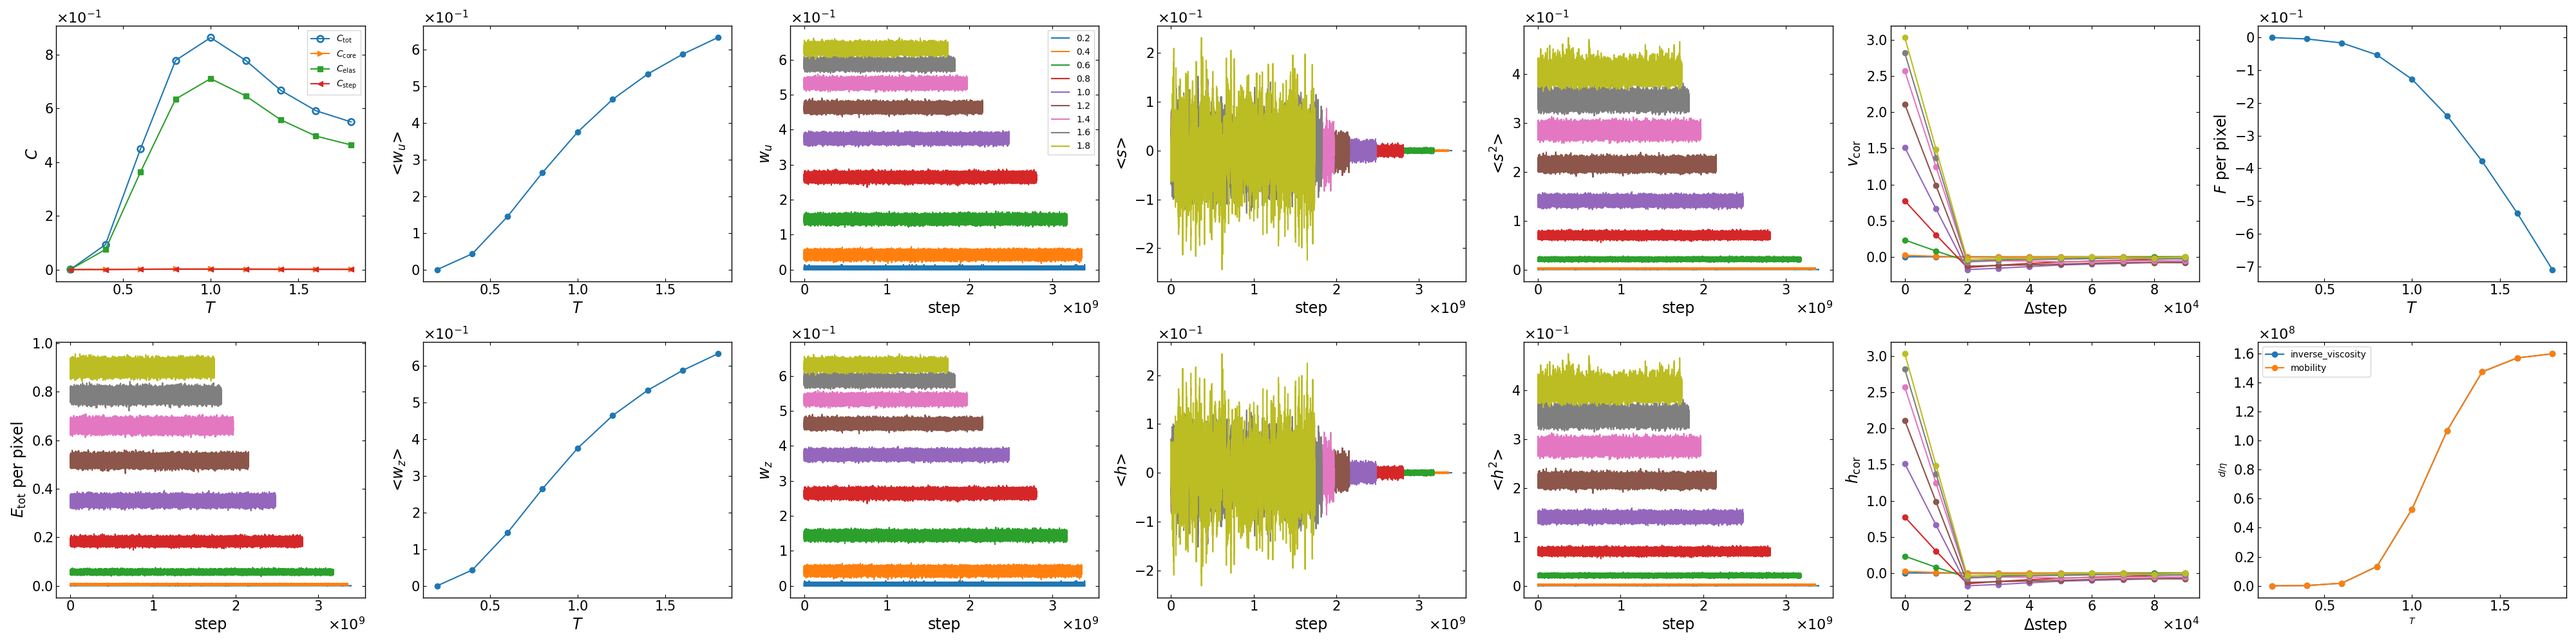
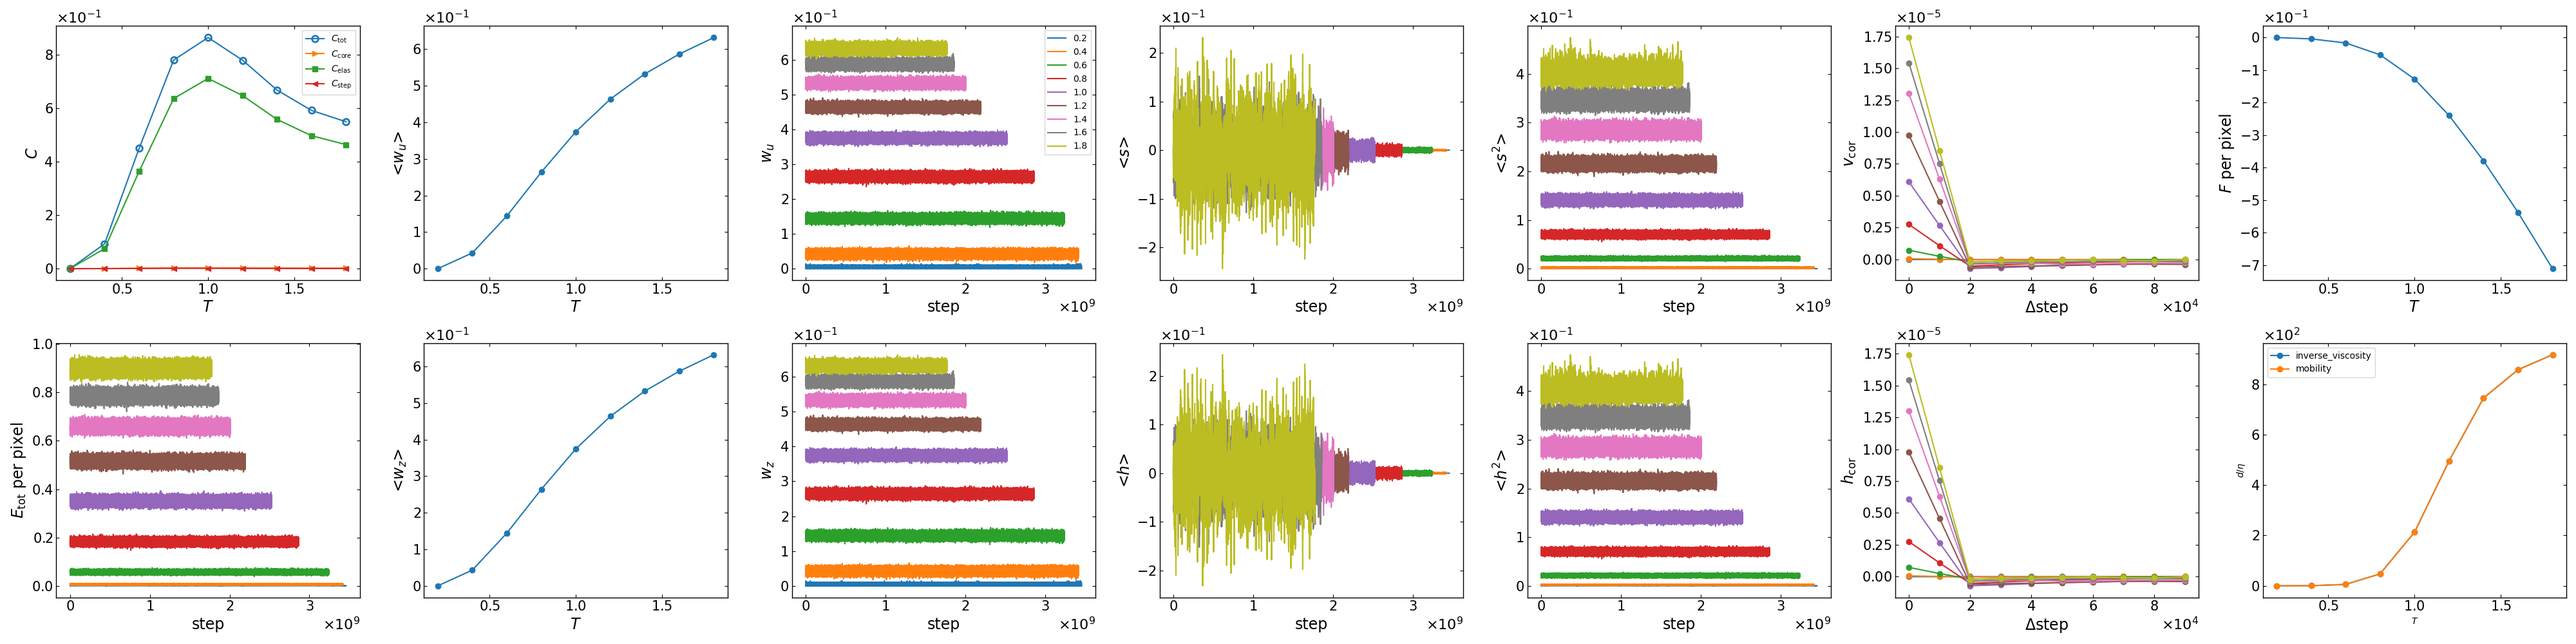
polish code

diff --git a/src/plot_quantities.py b/src/plot_quantities.py
@@ -16,7 +16,7 @@ from file_handling import output_path
 from param import case
 from analysis import calc_correlation, calc_inverse_viscosity
 
-equlibrium_num = 50
+equlibrium_num = 400
 mpl.rcParams['xtick.direction'] = 'in'
 mpl.rcParams['ytick.direction'] = 'in'
 mpl.rcParams['xtick.top'] = True
@@ -50,6 +50,7 @@ mode_list = case['mode_list']
 num_points = case['num_points']
 kpoints_max = case['kpoints_max']
 latt_dim = (num_points, num_points)
+write_step = case['write_step']
 
 T = np.arange(0,2,0.2)[1:]
 T = np.array([0.2,0.4,0.5,0.6,0.7,0.8,1.0,1.2,1.4,1.6,1.8])
@@ -118,11 +119,11 @@ for i in range(T.shape[0]):
     ax[1][4].plot(step, h_square_mean, '-')
 
     # calculate v-v correlation
-    v = (np.diff(s_mean[1:], n=1) + np.diff(s_mean[:-1], n=1))/2
-    h = (np.diff(h_mean[1:], n=1) + np.diff(h_mean[:-1], n=1))/2
-    tau_array_v , correlation_v = calc_correlation(v, T[i], num_points)
+    v = a_dsc*(np.diff(s_mean[1:], n=1) + np.diff(s_mean[:-1], n=1))/2
+    h = a_dsc*(np.diff(h_mean[1:], n=1) + np.diff(h_mean[:-1], n=1))/2
+    tau_array_v , correlation_v = calc_correlation(v, write_step)
     ax[0][5].plot(tau_array_v, correlation_v, 'o-')
-    tau_array_h , correlation_h = calc_correlation(h, T[i], num_points)
+    tau_array_h , correlation_h = calc_correlation(h, write_step)
     ax[1][5].plot(tau_array_h, correlation_h, 'o-')
 
     integrate_vs = calc_inverse_viscosity(tau_array_v, correlation_v, T[i], num_points)
@@ -131,25 +132,25 @@ for i in range(T.shape[0]):
     mobility.append(integrate_vz)
 
 ax[0,5].set_xlabel(r'$\Delta$step', fontsize=labelsize)
-ax[0,5].set_ylabel(r'$v_\mathrm{cor}$', fontsize=labelsize)
+ax[0,5].set_ylabel(r'$\mathrm{cor}_v$', fontsize=labelsize)
 ax[1,5].set_xlabel(r'$\Delta$step', fontsize=labelsize)
-ax[1,5].set_ylabel(r'$h_\mathrm{cor}$', fontsize=labelsize)
+ax[1,5].set_ylabel(r'$\mathrm{cor}_h$', fontsize=labelsize)
 
 ax[1][0].set_xlabel('step', fontsize=labelsize)
 ax[1][0].set_ylabel(r'$E_\mathrm{tot}$ per pixel', fontsize=labelsize)
 ax[0][2].set_xlabel('step', fontsize=labelsize)
-ax[0][2].set_ylabel(r'$w_u$', fontsize=labelsize)
+ax[0][2].set_ylabel(r'$w_s$', fontsize=labelsize)
 ax[1][2].set_xlabel('step', fontsize=labelsize)
 ax[1][2].set_ylabel(r'$w_z$', fontsize=labelsize)
 
 ax[0][3].set_xlabel('step', fontsize=labelsize)
-ax[0][3].set_ylabel(r'<$s$>', fontsize=labelsize)
+ax[0][3].set_ylabel(r'$\overline{s}$', fontsize=labelsize)
 ax[1][3].set_xlabel('step', fontsize=labelsize)
-ax[1][3].set_ylabel(r'<$h$>', fontsize=labelsize)
+ax[1][3].set_ylabel(r'$\overline{h}$', fontsize=labelsize)
 ax[0][4].set_xlabel('step', fontsize=labelsize)
-ax[0][4].set_ylabel(r'<$s^2$>', fontsize=labelsize)
+ax[0][4].set_ylabel(r'$\overline{s^2}$', fontsize=labelsize)
 ax[1][4].set_xlabel('step', fontsize=labelsize)
-ax[1][4].set_ylabel(r'<$h^2$>', fontsize=labelsize)
+ax[1][4].set_ylabel(r'$\overline{h^2}$', fontsize=labelsize)
 
 for i in range(figsize_x):
     for j in range(figsize_y):
@@ -164,7 +165,7 @@ ax[0][0].set_xlabel(r'$T$', fontsize=labelsize)
 ax[0][1].set_xlabel(r'$T$', fontsize=labelsize)
 ax[1][1].set_xlabel(r'$T$', fontsize=labelsize)
 ax[0][0].set_ylabel(r'$C$', fontsize=labelsize)
-ax[0][1].set_ylabel(r'<$w_u$>', fontsize=labelsize)
+ax[0][1].set_ylabel(r'<$w_s$>', fontsize=labelsize)
 ax[1][1].set_ylabel(r'<$w_z$>', fontsize=labelsize)
 
 ax[0][1].plot(T, np.array(W_list), 'o-',)
@@ -184,9 +185,9 @@ ax[0][6].set_ylabel(r'$F$ per pixel', fontsize=labelsize)
 
 ax[1,6].plot(T, inverse_viscosity, 'o-', label = r'inverse_viscosity')
 ax[1,6].plot(T, mobility, 'o-', label = r'mobility')
-ax[1,6].set_ylabel(r'$d/\eta$')
-ax[1,6].set_xlabel(r'$T$')
-ax[1,6].legend()
+ax[1,6].set_ylabel(r'$d/\eta$', fontsize = labelsize)
+ax[1,6].set_xlabel(r'$T$', fontsize = labelsize)
+ax[1,6].legend(fancybox=False)
 
 #ax[1,7].plot(1/T, np.log(inverse_viscosity), 'o-')
 #ax[1,7].plot(1/T, np.log(mobility), 'o-')

diff --git a/src/analysis.py b/src/analysis.py
@@ -1,28 +1,27 @@
 import numpy as np
 import scipy
 
-def calc_correlation(quantity, T, num_points):
-    dump_interval = num_points**2
+def calc_correlation(quantity, write_step):
     N = quantity.shape[0]
-    tau_array = np.arange(0,10,1)
+    delta_step_index_array = np.arange(0,10,1)
     correlation = []
-    for tau in tau_array:
+    for index in delta_step_index_array:
         count = 0
-        integral = 0
+        ave = 0
         for i in range(N-1):
-            t0 = i
-            t_tau = i+tau
-            if t_tau>N-2:
+            step_0 = i
+            step_delta_step = i+index
+            if step_delta_step>N-2:
                 break
-            v0 = quantity[t0]
-            v_tau = quantity[t_tau]
-            integral += v0 * v_tau 
+            v_0 = quantity[step_0]
+            v_delta_step = quantity[step_delta_step]
+            ave += v_0 * v_delta_step
             count +=1
-        #integral = integral/count/T * 2 * num_points**2
-        correlation.append(integral)
-    return tau_array*dump_interval, correlation
+        ave /= count
+        correlation.append(ave)
+    return delta_step_index_array*write_step, correlation
 
 def calc_inverse_viscosity(tau_array, correlation, T, num_points):
-    integrate = scipy.integrate.trapezoid(correlation, x=tau_array)*num_points**2/T
+    integrate = 2*scipy.integrate.trapezoid(correlation, x=tau_array)*num_points**2/T
     return integrate
 

diff --git a/src/monte_carlo_simulator.py b/src/monte_carlo_simulator.py
@@ -7,7 +7,7 @@ from compute_fields import compute_stress_field
 from plot_state import plot_state_stress
 from file_handling import write_total_energy_wu_to_txt
 
-def mmc(latt_state_init, latt_stress_init, latt_height_init, stress_kernel, a_dsc, gamma, nblist_mat, nblist_arr, temperature, tau_ext, maxiter, nu, zeta, recalc_stress_step, plot_state_step, mode_list,E_total, E_core,E_elas,E_step, dump_interval, path_state=None):
+def mmc(latt_state_init, latt_stress_init, latt_height_init, stress_kernel, a_dsc, gamma, nblist_mat, nblist_arr, temperature, tau_ext, maxiter, nu, zeta, recalc_stress_step, plot_state_step, mode_list,E_total, E_core,E_elas,E_step, dump_interval, write_step, path_state=None):
     '''metropolis monte carlo'''
     latt_state = latt_state_init
     latt_stress = latt_stress_init
@@ -15,7 +15,6 @@ def mmc(latt_state_init, latt_stress_init, latt_height_init, stress_kernel, a_ds
     N = latt_state.shape[0]
     choice_num = len(mode_list)
     stress_kernel_center = stress_kernel_shift(stress_kernel, (int(np.ceil(N/2-1)), int(np.ceil(N/2-1))))
-    write_step = 2000 #N*N
     
     # create a txt file for writing E_total and w_u
     open(f'{path_state}/quantities.txt','w')

diff --git a/src/main.py b/src/main.py
@@ -17,6 +17,7 @@ latt_dim = (num_points, num_points)
 maxiter = case['maxiter']
 recalc_stress_step = case['recalc_stress_step']
 plot_state_step = case['plot_state_step']
+write_step = case['write_step']
 path_stress_kernel = case['path_stress_kernel']
 dump_interval = case['dump_interval']
 read_restart =  case['read_restart']
@@ -56,4 +57,4 @@ E_total, E_core, E_elas, E_step = \
 
 # metropolis monte carlo
 from monte_carlo_simulator import mmc
-latt_state, latt_stress = mmc(latt_state, latt_stress, latt_height, stress_kernel, a_dsc, gamma, nblist_mat, nblist_arr, temperature, tau_ext, maxiter, nu, zeta, recalc_stress_step, plot_state_step, mode_list, E_total, E_core, E_elas, E_step, dump_interval, path_state)
+latt_state, latt_stress = mmc(latt_state, latt_stress, latt_height, stress_kernel, a_dsc, gamma, nblist_mat, nblist_arr, temperature, tau_ext, maxiter, nu, zeta, recalc_stress_step, plot_state_step, mode_list, E_total, E_core, E_elas, E_step, dump_interval, write_step, path_state)

diff --git a/src/param.py b/src/param.py
@@ -24,6 +24,8 @@ case_N200_k400 = {
     'plot_state_step' : 2000000,          # plot state every this number of steps
     'dump_interval'   : 2e8,
     'path_stress_kernel' : './stress_kernel_origin', # directory for saving stress kernel file
+    'write_step'   : 2000, 
+    # read restart
     'read_restart' : False,
     'start_points' : [400000000],
     'initial_dim'  : (200,200),
@@ -107,6 +109,7 @@ case_N100_k400 = {
     'dump_interval'   : 1e8,
     'path_stress_kernel' : './stress_kernel_origin', # directory for saving stress kernel file
     'plot_lim'     :2.5,
+    'write_step'   : 10000,
     'read_restart' : False,
 }
 
